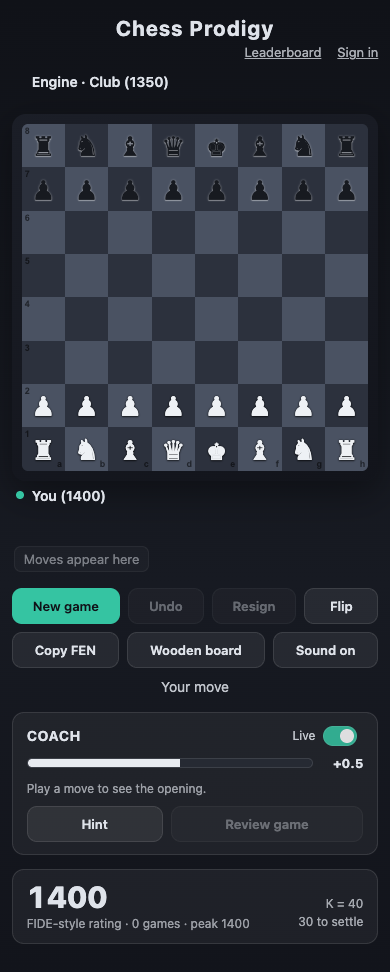
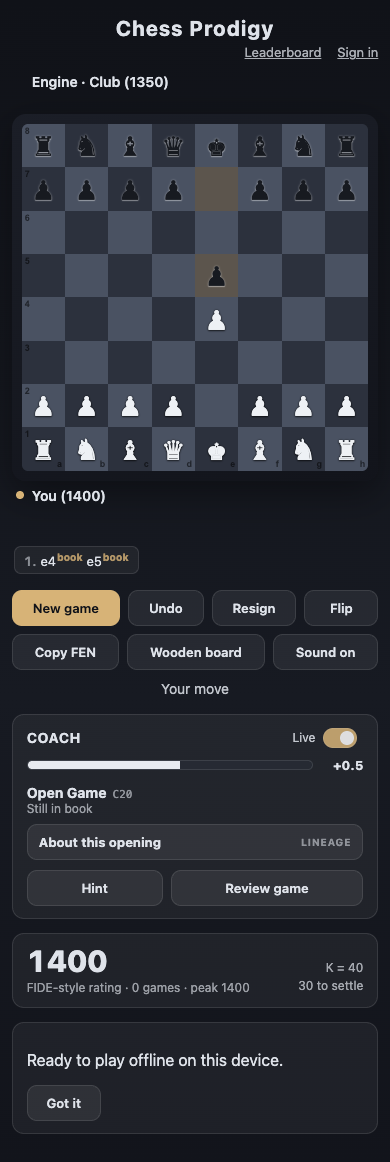
fix: replace green accents and default to dark board

diff --git a/src/ui/theme.css b/src/ui/theme.css
@@ -9,15 +9,15 @@ body,
   min-height: 100%;
 }
 body {
-  background: #e6d7ba;
+  background: #101218;
 }
 .app,
 [data-modal-root] {
   --sq-light: #f0d9b5;
   --sq-dark: #b58863;
   --frame: linear-gradient(160deg, #7a5230, #5c3d20 60%, #4a3018);
-  --accent: #2f6b3a;
-  --accent-soft: rgba(47, 107, 58, 0.55);
+  --accent: #765333;
+  --accent-soft: rgba(118, 83, 51, 0.55);
   --panel: rgba(255, 252, 244, 0.72);
   --panel-border: rgba(90, 60, 30, 0.25);
   --pw: #fdf6e8;
@@ -52,8 +52,8 @@ body:has(.app[data-theme="dark"]) [data-modal-root] {
   --sq-light: #4a5262;
   --sq-dark: #2c313d;
   --frame: linear-gradient(160deg, #1b1e27, #12141b);
-  --accent: #35c4a2;
-  --accent-soft: rgba(53, 196, 162, 0.55);
+  --accent: #d7b377;
+  --accent-soft: rgba(215, 179, 119, 0.55);
   --panel: rgba(255, 255, 255, 0.05);
   --panel-border: rgba(255, 255, 255, 0.1);
   --pw: #eef1f5;
@@ -61,7 +61,7 @@ body:has(.app[data-theme="dark"]) [data-modal-root] {
   --pw-edge: rgba(0, 0, 0, 0.6);
   --pb-edge: rgba(255, 255, 255, 0.35);
   --check: rgba(235, 80, 80, 0.55);
-  --last: rgba(53, 196, 162, 0.28);
+  --last: rgba(215, 179, 119, 0.28);
   --hint: rgba(120, 170, 255, 0.5);
   --btn: rgba(255, 255, 255, 0.07);
   --bar-w: #e8ebf0;
@@ -105,8 +105,8 @@ body:has(.app[data-theme="dark"]) [data-modal-root] {
   min-height: 100vh;
   display: grid;
   place-items: center;
-  background: #e6d7ba;
-  color: #3c2a18;
+  background: #101218;
+  color: #dfe3ea;
   font-family: Georgia, "Times New Roman", serif;
 }
 .account-form {
@@ -389,7 +389,7 @@ body:has(.app[data-theme="dark"]) [data-modal-root] {
   margin-left: 1px;
 }
 .ann.good {
-  color: #2f9e5b;
+  color: var(--accent);
 }
 .ann.bad {
   color: #c9463d;
@@ -596,7 +596,7 @@ body:has(.app[data-theme="dark"]) [data-modal-root] .modal {
   color: #fff;
 }
 .chip.W {
-  background: #2f9e5b;
+  background: #596477;
 }
 .chip.L {
   background: #c9463d;
@@ -609,13 +609,13 @@ body:has(.app[data-theme="dark"]) [data-modal-root] .modal {
   font-variant-numeric: tabular-nums;
 }
 .delta.up {
-  color: #2f9e5b;
+  color: var(--accent);
 }
 .delta.down {
   color: #c9463d;
 }
 .app[data-theme="dark"] .delta.up {
-  color: #4fd68a;
+  color: #d7b377;
 }
 .note {
   font-size: 12px;

diff --git a/tests/browser/accounts.spec.ts b/tests/browser/accounts.spec.ts
@@ -169,9 +169,9 @@ test("a cloud conflict stays actionable above an open setup dialog", async ({
   await other.goto("/");
   await signInAccount(other, email);
 
-  await page.getByRole("button", { name: "Dark board" }).click();
+  await page.getByRole("button", { name: "Wooden board" }).click();
   await page.waitForTimeout(1200);
-  await other.getByRole("button", { name: "Dark board" }).click();
+  await other.getByRole("button", { name: "Wooden board" }).click();
   await other.getByRole("button", { name: "New game", exact: true }).click();
   const conflict = other.getByRole("dialog", { name: "Progress changed on another device" });
   await expect(conflict).toBeVisible({ timeout: 5000 });
@@ -198,12 +198,12 @@ test("returning preferences to their initial value still syncs the final choice"
   await expect(page.getByText("Pending changes")).toBeVisible();
   await expect(page.getByText("Saved to account")).toBeVisible({ timeout: 5000 });
   await page.reload();
-  await page.getByRole("button", { name: "Dark board" }).click();
-  await expect(page.getByText("Pending changes")).toBeVisible();
-  await expect(page.getByText("Saved to account")).toBeVisible({ timeout: 5000 });
   await page.getByRole("button", { name: "Wooden board" }).click();
   await expect(page.getByText("Pending changes")).toBeVisible();
   await expect(page.getByText("Saved to account")).toBeVisible({ timeout: 5000 });
+  await page.getByRole("button", { name: "Dark board" }).click();
+  await expect(page.getByText("Pending changes")).toBeVisible();
+  await expect(page.getByText("Saved to account")).toBeVisible({ timeout: 5000 });
   await page.reload();
-  await expect(page.getByRole("button", { name: "Dark board" })).toBeVisible();
+  await expect(page.getByRole("button", { name: "Wooden board" })).toBeVisible();
 });

diff --git a/tests/browser/production.spec.js b/tests/browser/production.spec.js
@@ -15,9 +15,9 @@ async function play(page,from,to){
 }
 test('reload preserves game, rating and theme without replaying engine moves',async({page})=>{
  await start(page);await play(page,'e2','e4');
- await page.getByRole('button',{name:'Dark board',exact:true}).click();
+ await page.getByRole('button',{name:'Wooden board',exact:true}).click();
  const before=await saved(page);await page.reload();
- await expect(page.locator('.app')).toHaveAttribute('data-theme','dark');
+ await expect(page.locator('.app')).toHaveAttribute('data-theme','wood');
  expect((await saved(page)).game.hist.map(e=>e.san)).toEqual(before.game.hist.map(e=>e.san));
  expect((await saved(page)).rating).toEqual(before.rating);
  await expect(page.getByRole('button',{name:'Start',exact:true})).toHaveCount(0);
@@ -39,7 +39,7 @@ test('keyboard plays and dialogs trap focus; both themes pass axe checks',async(
  expect(await dialog.evaluate(el=>el.contains(document.activeElement))).toBe(true);
  await page.keyboard.press('Escape');await expect(dialog).toHaveCount(0);
  for(const theme of ['wood','dark']){
-  if(theme==='dark')await page.getByRole('button',{name:'Dark board',exact:true}).click();
+  await page.getByRole('button',{name:theme==='wood'?'Wooden board':'Dark board',exact:true}).click();
   const scan=await new AxeBuilder({page}).withTags(['wcag2a','wcag2aa','wcag21aa']).analyze();
   await info.attach('axe-'+theme,{body:JSON.stringify(scan.violations,null,2),contentType:'application/json'});
   expect(scan.violations).toEqual([]);

diff --git a/tests/browser/interface.spec.js b/tests/browser/interface.spec.js
@@ -27,11 +27,12 @@ test("name, both themes, layout and legal play", async ({ page }, info) => {
   await expect.poll(() => page.evaluate(() => JSON.parse(localStorage.getItem("chess-prodigy-state-v1")).game.hist.length)).toBe(2);
   // Some legal book replies (e.g. 1...g6) are unnamed until a later move.
   await expect(page.locator(".opening")).toContainText(/Still in book|In book, no named line yet/);
-  await page.screenshot({path:"docs/verification/"+info.project.name+"-wood.png",fullPage:true,animations:"disabled"});
-  await page.getByRole("button",{name:"Dark board",exact:true}).click();
   await expect(page.locator(".app")).toHaveAttribute("data-theme","dark");
-  expect(await page.evaluate(()=>document.documentElement.scrollWidth<=innerWidth)).toBe(true);
   await page.screenshot({path:"docs/verification/"+info.project.name+"-dark.png",fullPage:true,animations:"disabled"});
+  await page.getByRole("button",{name:"Wooden board",exact:true}).click();
+  await expect(page.locator(".app")).toHaveAttribute("data-theme","wood");
+  expect(await page.evaluate(()=>document.documentElement.scrollWidth<=innerWidth)).toBe(true);
+  await page.screenshot({path:"docs/verification/"+info.project.name+"-wood.png",fullPage:true,animations:"disabled"});
   expect(errors).toEqual([]);
 });
 test("Black orientation follows pieces and remains correct after flip", async ({page}) => {

diff --git a/tests/ui/App.test.tsx b/tests/ui/App.test.tsx
@@ -44,16 +44,17 @@ it("starts, plays a legal move, receives an engine reply and preserves theme acr
       <App />
     </StrictMode>,
   );
+  expect(view.container.querySelector(".app")?.getAttribute("data-theme")).toBe("dark");
   fireEvent.click(screen.getByRole("button", { name: "Start", exact: true }));
   fireEvent.click(screen.getByRole("button", { name: "e2, white pawn" }));
   fireEvent.click(screen.getByRole("button", { name: "e4, empty" }));
   await waitFor(() =>
     expect(JSON.parse(localStorage.getItem("chess-prodigy-state-v1")!).game.hist).toHaveLength(2),
   );
-  fireEvent.click(screen.getByRole("button", { name: "Dark board" }));
+  fireEvent.click(screen.getByRole("button", { name: "Wooden board" }));
   view.unmount();
   render(<App />);
-  expect(screen.getByRole("button", { name: "Wooden board" })).toBeTruthy();
+  expect(screen.getByRole("button", { name: "Dark board" })).toBeTruthy();
   expect(screen.queryByRole("button", { name: "Start", exact: true })).toBe(null);
   expect(screen.getByRole("button", { name: "e4, white pawn" })).toBeTruthy();
 });

diff --git a/index.html b/index.html
@@ -1,1 +1,1 @@
-<!doctype html><html lang="en"><head><meta charset="UTF-8"/><meta name="viewport" content="width=device-width, initial-scale=1"/><meta name="theme-color" content="#2f6b3a"/><title>Chess Prodigy</title><meta name="theme-color" content="#2f6b3a"/><link rel="apple-touch-icon" href="/icons/apple-touch-icon.png"/></head><body><div id="root"></div><script type="module" src="/src/main.tsx"></script></body></html>
+<!doctype html><html lang="en"><head><meta charset="UTF-8"/><meta name="viewport" content="width=device-width, initial-scale=1"/><meta name="theme-color" content="#101218"/><title>Chess Prodigy</title><link rel="apple-touch-icon" href="/icons/apple-touch-icon.png"/></head><body><div id="root"></div><script type="module" src="/src/main.tsx"></script></body></html>

diff --git a/vite.config.ts b/vite.config.ts
@@ -15,8 +15,8 @@ export default defineConfig({
         start_url: "/",
         scope: "/",
         display: "standalone",
-        theme_color: "#2f6b3a",
-        background_color: "#f4ead6",
+        theme_color: "#101218",
+        background_color: "#101218",
         icons: [
           { src: "/icons/icon-192.png", sizes: "192x192", type: "image/png" },
           { src: "/icons/icon-512.png", sizes: "512x512", type: "image/png" },

diff --git a/src/game/state.ts b/src/game/state.ts
@@ -44,7 +44,7 @@ export function freshSession(now: number, id: string): Session {
     version: 1,
     game: freshGame({ playerColor: "w", level: "club", time: "none" }, now, id),
     rating: defaultRating(),
-    preferences: { theme: "wood", sound: true, coach: true, flipped: false },
+    preferences: { theme: "dark", sound: true, coach: true, flipped: false },
   };
 }
 export function settleClock(g: Game, now: number): Game {

diff --git a/README.md b/README.md
@@ -4,14 +4,14 @@
 
 A chess coach you can play in your browser. Practise against three engine strengths, explore opening plans, ask for a hint and review your moves. Play as a guest or create an account to keep your progress across devices.
 
-![Chess Prodigy with the wooden board](docs/verification/public-desktop.png)
+![Chess Prodigy with the dark board](docs/verification/public-desktop.png)
 
 ## Features
 
 - Custom chess engine with Casual, Club and Strong levels; calculations run separately so the board stays responsive.
 - 185 opening lines and 27 coaching cards, move explanations, hints and game review.
 - Untimed games or 5, 10 and 15+10 minute clocks, with promotion, castling, en passant and draw detection.
-- Wooden and dark boards, keyboard controls, sound and mobile layouts.
+- Dark board by default, an optional wooden board, keyboard controls, sound and mobile layouts.
 - Optional name, email and password accounts with private game records, saved position, practice rating and preferences.
 - An in-app leaderboard of player names and practice ratings, after one rated game.
 - Guest play works offline after the first successful online load. Updates wait until the active game finishes.

diff --git a/docs/verification/release-report.md b/docs/verification/release-report.md
@@ -52,3 +52,9 @@ Verified at **chess.clauding-lab.com on 5 September 2026 BDT**: registration wit
 HTTP redirects to the fixed HTTPS address. Unauthenticated private-record requests return 401 with no-store headers. The isolated service is active, and its first consistent database backup succeeded with private 0600 file permissions. The daily timer is enabled for approximately 04:15 BDT.
 
 Live screenshots: [desktop wood](public-desktop.png), [mobile dark](public-mobile.png). Physical phone verification remains pending.
+
+## v1.0.1 — dark default and neutral accents
+
+New guest and account sessions default to the dark board; previously saved theme choices remain valid. Green controls, highlights, positive markers and icon backgrounds have been replaced with muted gold, warm brown or slate. Startup and installed-app colours match the dark default.
+
+Verified: 175 unit/integration tests, 37 browser checks (3 duplicate mobile cases skipped), typecheck/lint/format/build, and Lighthouse accessibility **100/100 for both themes**. Default dark and explicitly saved wooden preferences are covered by the existing reload tests. The public screenshots show the updated dark appearance.

diff --git a/CHANGELOG.md b/CHANGELOG.md
@@ -1,5 +1,11 @@
 # Changelog
 
+## [1.0.1] — 2026-09-05 (BDT)
+
+- Dark board is now the default for new guest and account sessions. Saved theme choices are preserved.
+- Replaced green accents with muted gold on the dark board and warm brown on the wooden board; win markers use slate.
+- Updated the app icons, loading screen and installed-app colours to match.
+
 ## [1.0.0] — 2026-09-05 (BDT)
 
 First public release of Chess Prodigy.
@@ -32,3 +38,5 @@ First public release of Chess Prodigy.
 - Physical Android/iOS installation and performance checks remain pending. Daily backups are stored on the same server until a separate backup destination is provisioned.
 
 [1.0.0]: https://github.com/clauding-lab/chess-prodigy/releases/tag/v1.0.0
+
+[1.0.1]: https://github.com/clauding-lab/chess-prodigy/releases/tag/v1.0.1
